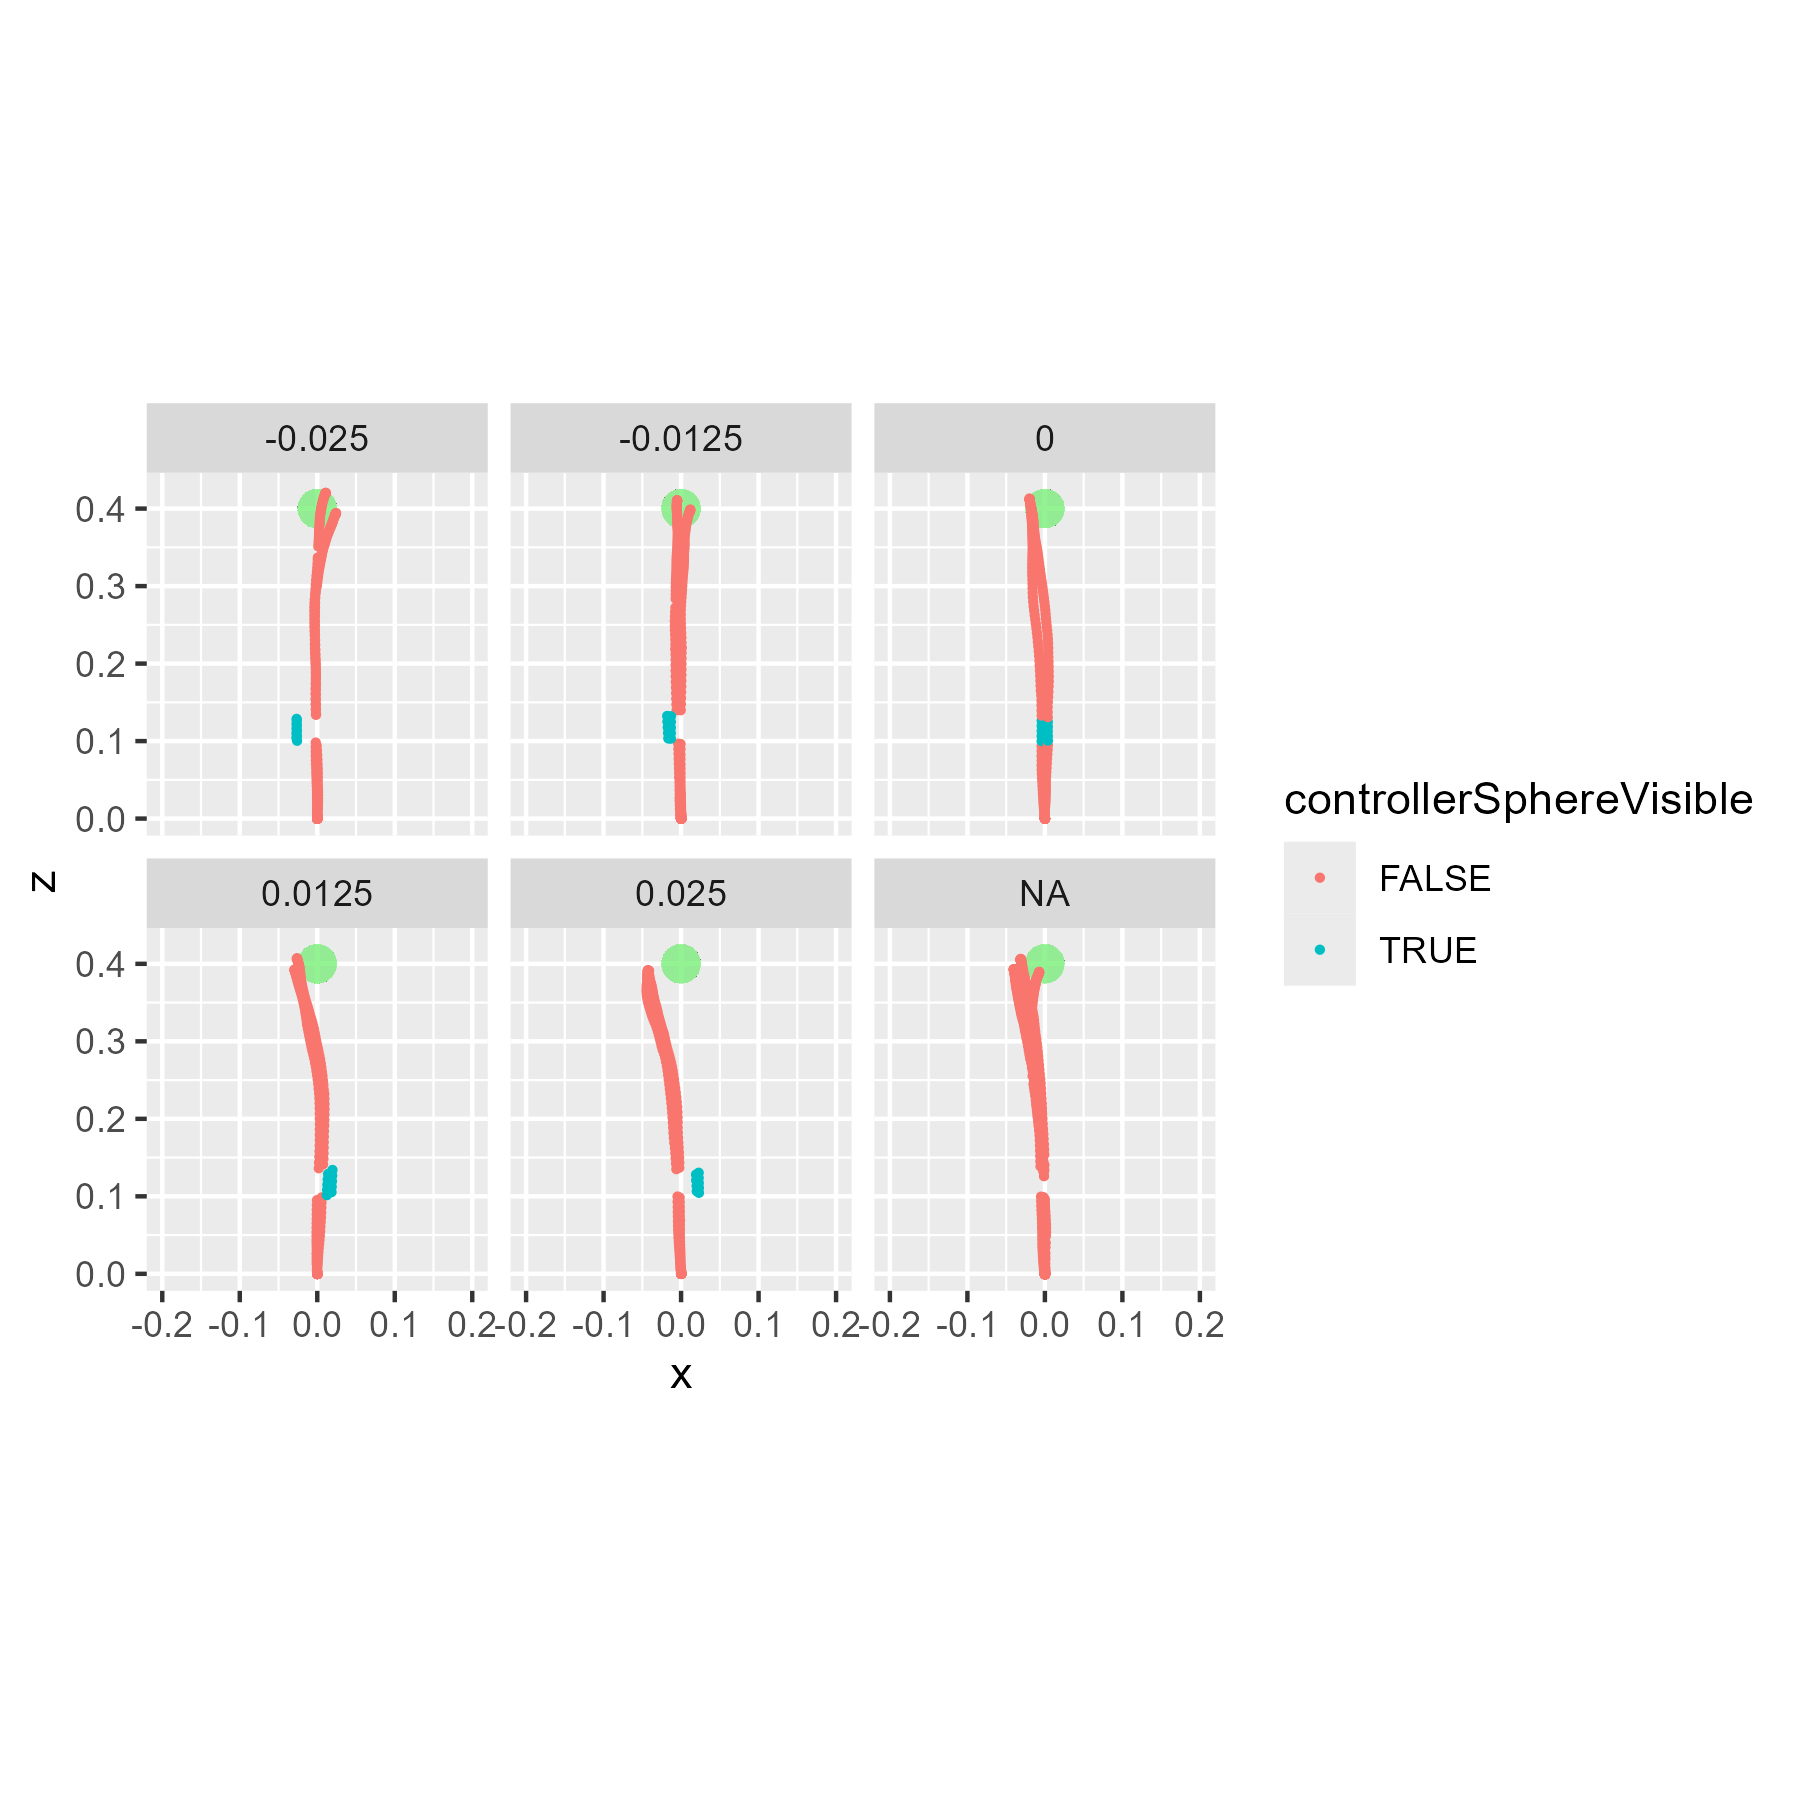
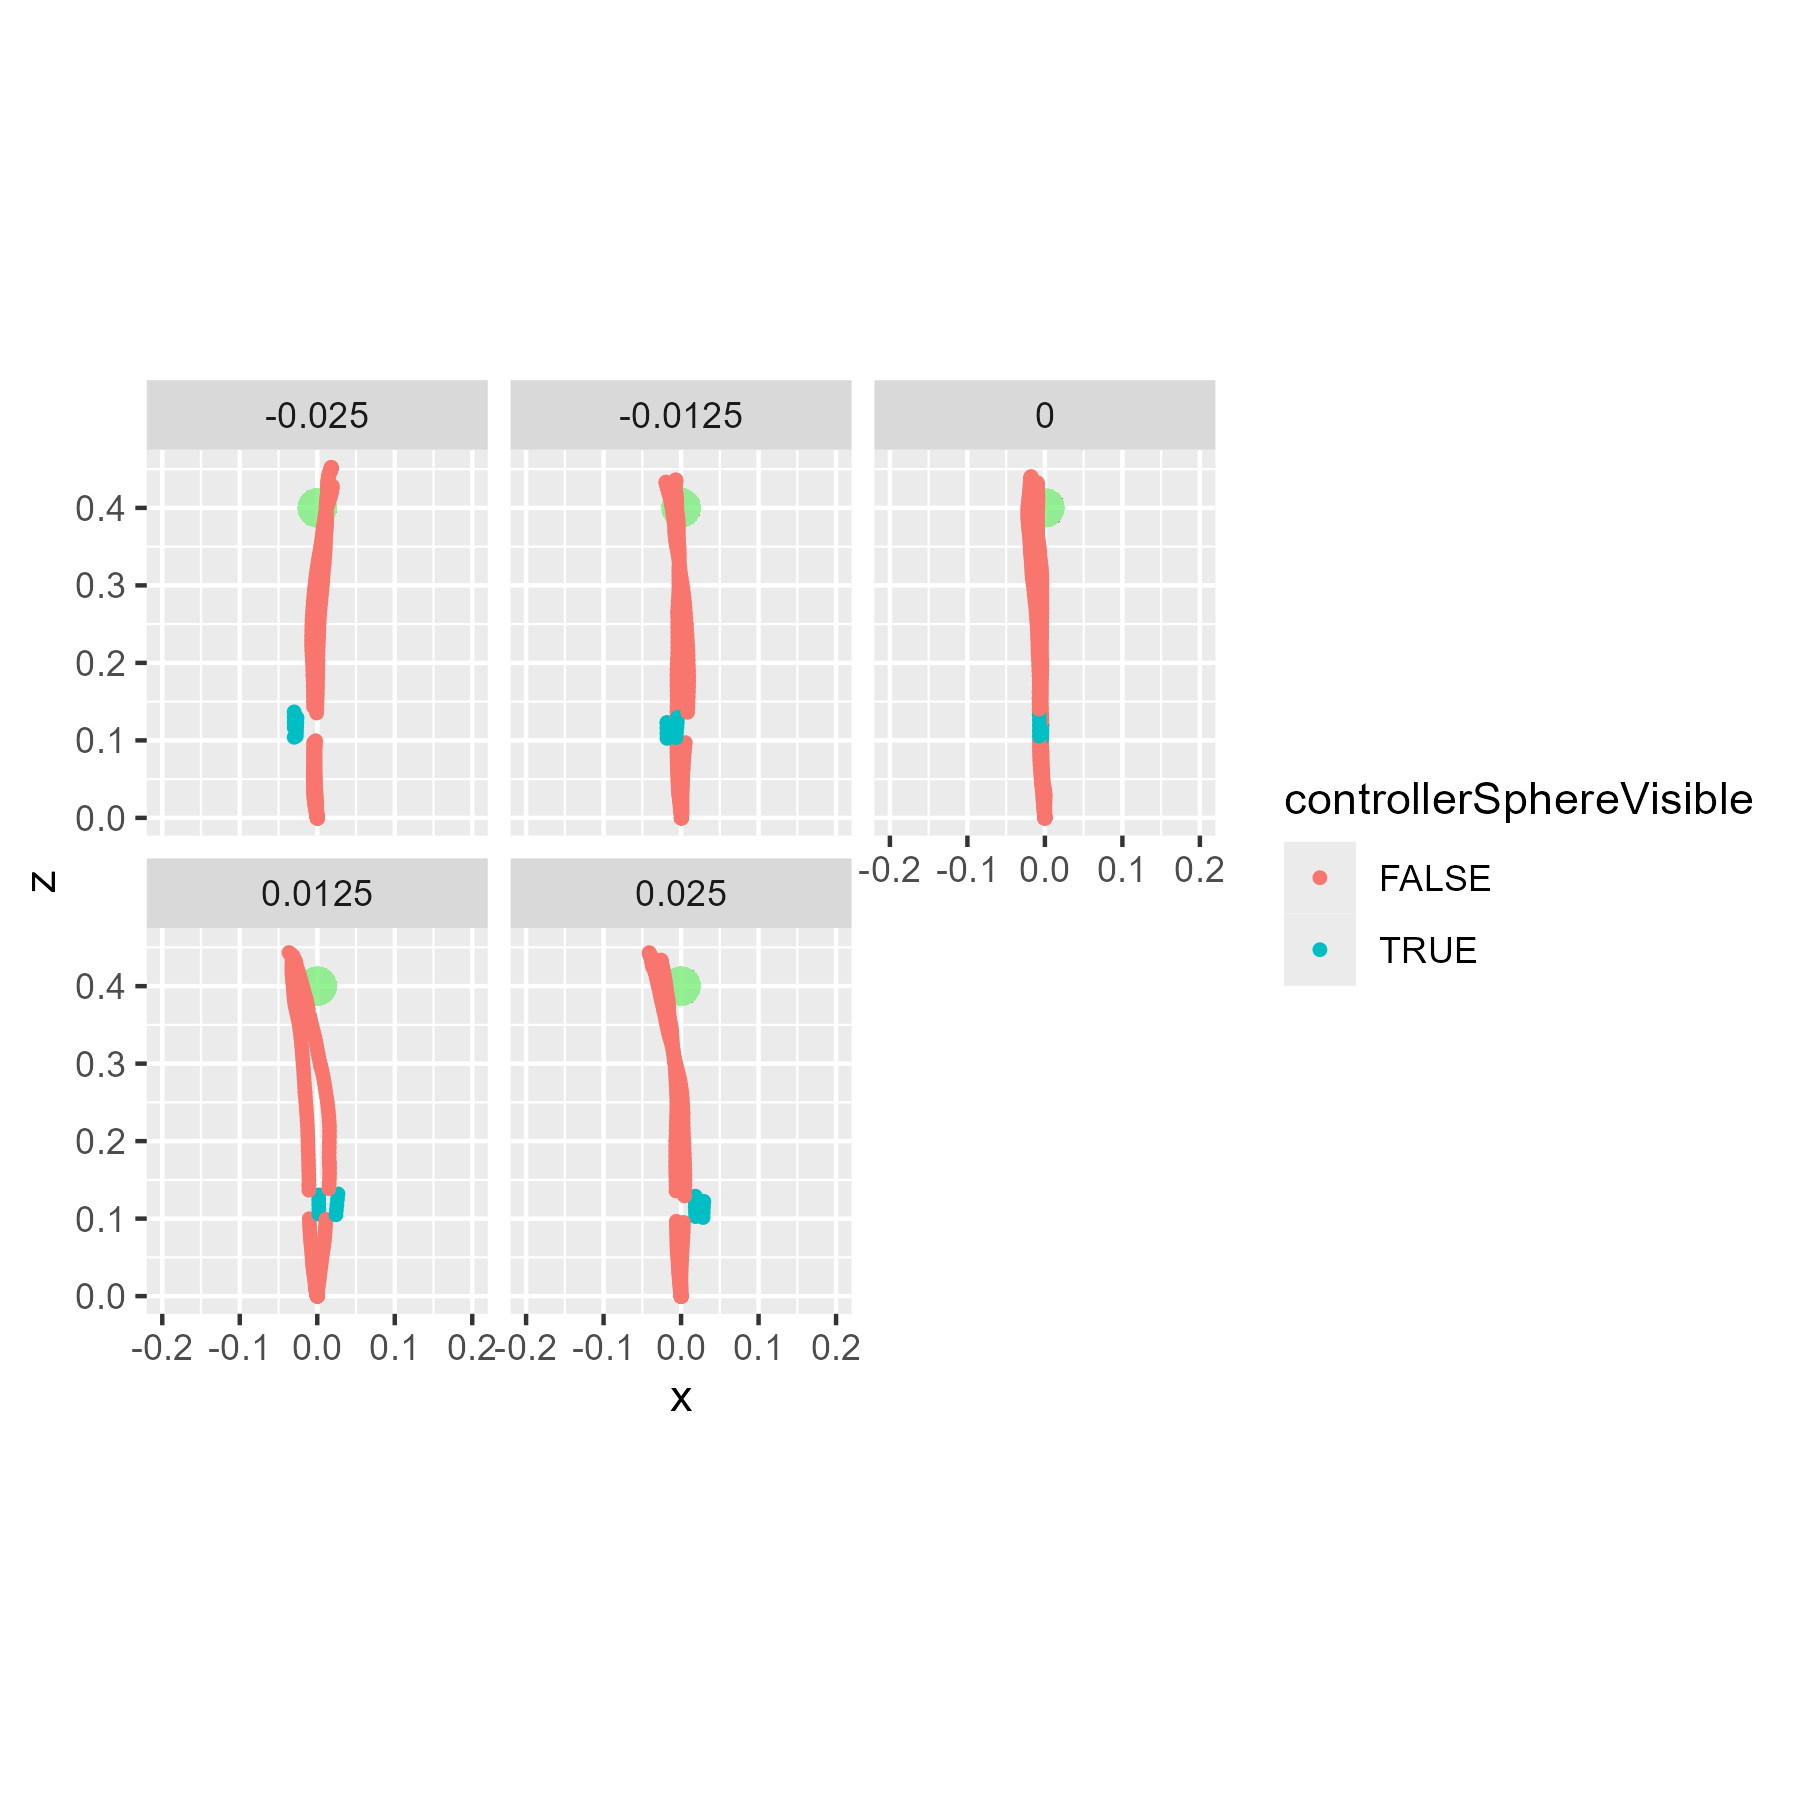
multi target working

diff --git a/Assets/Scripts/TaskRunner.cs b/Assets/Scripts/TaskRunner.cs
@@ -46,9 +46,9 @@ public class TaskRunner : MonoBehaviour
     private bool calibrationComplete = false;
     public string trialProgress;
     public string trialID;
+    public int targetNumber;
 
     // Coroutines
-    private Coroutine currentSubTrialCR;
     private Coroutine currentTrialCR;
     private Coroutine calibrationCR;
 
@@ -60,7 +60,6 @@ public class TaskRunner : MonoBehaviour
     private float trialInputTime;
 
     // Others
-    private Vector3 posControllerInTrialSpace;
     public TextMeshPro trialCounter;
 
     // Results to save
@@ -81,9 +80,9 @@ public class TaskRunner : MonoBehaviour
         controllerSphereScript = controllerSphere.GetComponent<ControlSphere>();
         trackedDeskScript = trackedDesk.GetComponent<PositionDesk>();
 
-        trialStartScript.visible = false;
-        trialTargetScript.visible = false;
-        controllerSphereScript.visible = false;
+        trialStartScript.Visible(false);
+        trialTargetScript.Visible(false);
+        controllerSphereScript.Visible(false);
         tracker1d.SetActive(false);
         tracker2d.SetActive(false);
     }
@@ -97,7 +96,6 @@ public class TaskRunner : MonoBehaviour
     public void EndTrialCoroutine()
     {
         StopCoroutine(currentTrialCR);
-        StopCoroutine(currentSubTrialCR);
     }
 
     IEnumerator TrialCoroutine(Trial trial)
@@ -145,9 +143,9 @@ public class TaskRunner : MonoBehaviour
 
         startPos = trialStart.transform.position;
         targetPos = new Vector3(0f, 0f, 0.4f);
-        controllerSphereScript.visible = true;
-        trialStartScript.visible = true;
-        trialTargetScript.visible = true;
+        controllerSphereScript.Visible(true);
+        trialStartScript.Visible(true);
+        trialTargetScript.Visible(true);
         trialTargetScript.PositionAnchor(targetPos);
         trialTargetScript.ColorObj(standbyGrey);
         trialStartScript.ColorObj(startTeal);
@@ -200,45 +198,59 @@ public class TaskRunner : MonoBehaviour
             yield return null;
         }
 
-        // Trial is now initiated
-        if (trial.settings.GetInt("nTargets") == 1)
-        {
-            currentSubTrialCR = StartCoroutine(TrialSingleTargetCoroutine(trial));
-        }
-        if (trial.settings.GetInt("nTargets") > 1)
-        {
-            currentSubTrialCR = StartCoroutine(TrialMultiTargetCoroutine(trial));
-        }
-
-    }
-    IEnumerator TrialSingleTargetCoroutine(Trial trial)
-    {
         Debug.Log("target local: " + trialTarget.transform.localPosition);
 
         trialProgress = "trialStarted";
         trialStartedTime = Time.time;
 
-        trialStartScript.visible = false;
-        if (!(trial.settings.GetBool("controllerVisibleTrialStart")))
+        if (trial.settings.GetInt("nTargets") == 1)
         {
-            controllerSphereScript.visible = false;
+            trialStartScript.Visible(false);
+            controllerSphereScript.Visible(trial.settings.GetBool("controllerVisibleTrialStart"));
+
+
+            controllerSphereScript.visualOffsetFromReference(new Vector3(
+                trial.settings.GetFloat("visualXOffset"), 
+                0, 
+                0),
+                trialSpace.transform);
+            trialTargetScript.ColorObj(targetGreen);
+            // Trial is now initiated
+            // Controller visibility
+            yield return new WaitUntil(() =>(GetRelativePosition(trialSpace, rightHandAnchor).z > .1));
+            StartCoroutine(ControllerVisibility(trial));
+
+            // Ensure input button is not fat fingered immediately before input is allowed
+            yield return new WaitUntil(() => (Vector3.Distance(trialStart.transform.position, controllerSphere.transform.position) > 0.1f));
+            yield return new WaitUntil(() => (OVRInput.GetDown(OVRInput.Button.One)));
         }
-        yield return null;
-        controllerSphereScript.visualOffsetFromReference(new Vector3(
-            trial.settings.GetFloat("visualXOffset"), 
-            0, 
-            0),
-            trialSpace.transform);
-        trialTargetScript.ColorObj(targetGreen);
 
-        // Controller visibility
-        yield return new WaitUntil(() =>(posControllerInTrialSpace.z > .1));
-        StartCoroutine(ControllerVisibility(trial));
+        if (trial.settings.GetInt("nTargets") > 1)
+        {
+            controllerSphereScript.Visible(trial.settings.GetBool("controllerVisibleTrialStart"));
+            Vector3 lastInputPosition = trialStart.transform.position;
+            targetNumber = 1;
+            for (int i = 0; i < trial.settings.GetInt("nTargets"); i++)
+            {
+                targetNumber = i+1;
+                if (i % 2 == 0)
+                {
+                    trialStartScript.ColorObj(standbyGrey);
+                    trialTargetScript.ColorObj(targetGreen);
+                }
+                else
+                {
+                    trialStartScript.ColorObj(targetGreen);
+                    trialTargetScript.ColorObj(standbyGrey);
+                }
+                yield return new WaitUntil(() => (Vector3.Distance(lastInputPosition, controllerSphere.transform.position) > 0.1f));
+                yield return new WaitUntil(() => (OVRInput.GetDown(OVRInput.Button.One)));
+                lastInputPosition = rightHandAnchor.transform.position;
+                yield return null; // pause till next frame to not increment targetNumber on the same frame as Button.One is pressed
+            }
+        }
 
-        // Ensure input button is not fat fingered immediately before input is allowed
-        yield return new WaitUntil(() => (Vector3.Distance(trialStart.transform.position, controllerSphere.transform.position) > 0.1f));
-        yield return new WaitUntil(() => (OVRInput.GetDown(OVRInput.Button.One)));
-        controllerSphereScript.visible = false;
+        controllerSphereScript.Visible(false);
 
         trueInput = GetRelativePosition(trialSpace, rightHandAnchor);
         visualOffsetInput = GetRelativePosition(trialSpace, controllerSphere);
@@ -246,7 +258,7 @@ public class TaskRunner : MonoBehaviour
         trialProgress = "trialInput";
         trialInputTime = Time.time;
 
-        trialStartScript.visible = true;
+        trialStartScript.Visible(true);
         trialTargetScript.PositionAnchor(targetPos);
         trialTargetScript.ColorObj(standbyGrey);
         trialStartScript.ColorObj(startTeal);
@@ -255,36 +267,12 @@ public class TaskRunner : MonoBehaviour
         SaveResults(trial);
         yield return new WaitUntil(() => (Vector3.Distance(trialStart.transform.position, controllerSphere.transform.position) < 0.1f));
 
-
         trial.End();
     }
-    IEnumerator TrialMultiTargetCoroutine(Trial trial)
-    {
-        GameObject currentTarget
-        Debug.Log("target local: " + trialTarget.transform.localPosition);
 
-        trialProgress = "trialStarted";
-        trialStartedTime = Time.time;
-
-        trialStartScript.visible = false;
-        if (!(trial.settings.GetBool("controllerVisibleTrialStart")))
-        {
-            controllerSphereScript.visible = false;
-        }
-        yield return null;
-        controllerSphereScript.visualOffsetFromReference(new Vector3(
-            trial.settings.GetFloat("visualXOffset"), 
-            0, 
-            0),
-            trialSpace.transform);
-        trialTargetScript.ColorObj(targetGreen);
-
-        trial.End();
-    }
     // Update is called once per frame
     void Update()
     {
-        posControllerInTrialSpace = trialSpace.transform.InverseTransformPoint(rightHandAnchor.transform.position);
     }
     IEnumerator calibration2d()
     {
@@ -311,16 +299,20 @@ public class TaskRunner : MonoBehaviour
 
         if (trial.settings.GetBool("turnControllerVisibleMidpoint"))
         {
-            controllerSphereScript.visible = true;
+            controllerSphereScript.Visible(true);
         }
 
-        yield return new WaitForSeconds(trial.settings.GetFloat("controllerMidpointVisibleTime"));
+        for (int i = 0; i < trial.settings.GetInt("controllerMidpointVisibleFrames"); i++)
+        {
+            yield return null;
+        }
+        //yield return new WaitForSeconds(trial.settings.GetFloat("controllerMidpointVisibleTime"));
         trialProgress = "trialControlVisibilityOn";
         trialControlVisibilityOnTime = Time.time;
 
         if (trial.settings.GetBool("turnControllerVisibleMidpoint"))
         {
-            controllerSphereScript.visible = false;
+            controllerSphereScript.Visible(false);
         }
     }
 

diff --git a/Assets/Scripts/trackers/RelativePositionRotationTracker.cs b/Assets/Scripts/trackers/RelativePositionRotationTracker.cs
@@ -9,7 +9,7 @@ namespace UXF
     public class RelativePositionRotationTracker : Tracker
     {
         public override string MeasurementDescriptor => "movement";
-        public override IEnumerable<string> CustomHeader => new string[] {"trialID", "trialProgress", "truepos_x", "truepos_y", "truepos_z", "vispos_x", "vispos_y", "vispos_z", "controllerSphereVisible"};
+        public override IEnumerable<string> CustomHeader => new string[] {"trialID", "trialProgress", "truepos_x", "truepos_y", "truepos_z", "vispos_x", "vispos_y", "vispos_z", "controllerSphereVisible", "aButtonDown", "targetNumber"};
         public TaskRunner taskRunner;
         public GameObject trialSpace;
         public GameObject controllerSphere;
@@ -38,7 +38,9 @@ namespace UXF
                 ("vispos_x", visualPosition.x),
                 ("vispos_y", visualPosition.y),
                 ("vispos_z", visualPosition.z),
-                ("controllerSphereVisible", controllerSphereScript.visible)
+                ("controllerSphereVisible", controllerSphereScript.visible),
+                ("aButtonDown", OVRInput.GetDown(OVRInput.Button.One)),
+                ("targetNumber", taskRunner.targetNumber)
             };
 
 

diff --git a/Assets/Scripts/controlSphere.cs b/Assets/Scripts/controlSphere.cs
@@ -19,11 +19,11 @@ public class ControlSphere : MonoBehaviour
     {
         obj.GetComponent<Renderer>().material = requestedColor;
     }
-    //public void VisibleObj(bool targetVisibility)
-    //{
-    //    visible = targetVisibility;
-    //    obj.SetActive(visible);
-    //}
+    public void Visible(bool targetVisibility)
+    {
+        visible = targetVisibility;
+        obj.SetActive(visible);
+    }
     public void visualOffsetFromReference(Vector3 requestedOffset, Transform referenceTransform)
     {
         transform.position = transform.position
@@ -35,8 +35,8 @@ public class ControlSphere : MonoBehaviour
     {
         transform.position = rightHandAnchor.transform.position;
     }
-    void Update()
-    {
-        obj.SetActive(visible);
-    }
+    //void Update()
+    //{
+    //    obj.SetActive(visible);
+    //}
 }

diff --git a/Assets/Scripts/ExperimentConstructorScript.cs b/Assets/Scripts/ExperimentConstructorScript.cs
@@ -68,5 +68,17 @@ public class ExperimentConstructorScript : MonoBehaviour
             }
             block3.trials.Shuffle();
         }
+        blockNumber = 4;
+        if (runBlocks.Contains(blockNumber))
+        {
+            Block block4 = uxfSession.CreateBlock();
+            for (int i = 0; i < numRepeats; i++)
+            {
+                Trial newTrial = block4.CreateTrial();
+                newTrial.settings.SetValue("blockNumber", blockNumber);
+                newTrial.settings.SetValue("controllerVisibleTrialStart", false);
+                newTrial.settings.SetValue("nTargets", 5);
+            }
+        }
     }
 }
